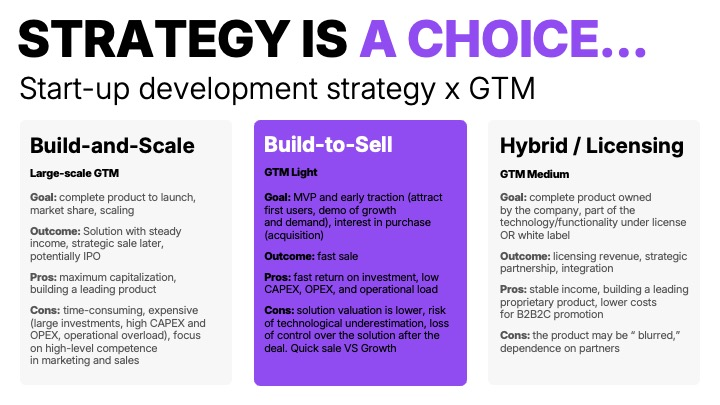
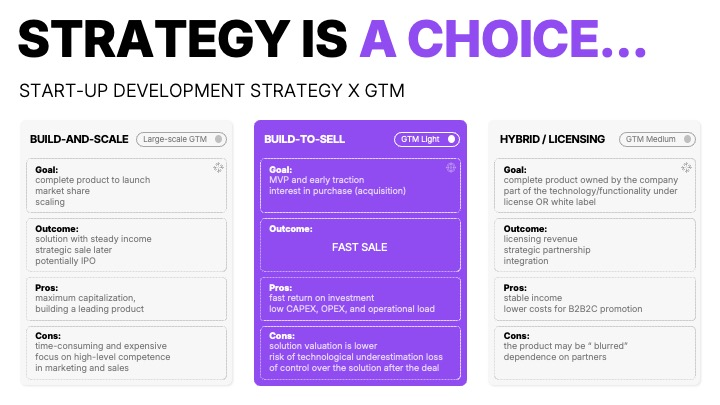
Новые слайды кейса «Маркетинговая стратегия»
Три слайда заменены на присланные заказчицей (AINA 1/2/3), порядок показа
сохранён: 1-2-3. К путям добавлен ?v=2 — имена файлов прежние, и без метки
браузеры отдавали бы старые картинки из кэша.

diff --git a/index.html b/index.html
@@ -16,7 +16,7 @@
 <link rel="preconnect" href="https://fonts.gstatic.com" crossorigin>
 <link href="https://fonts.googleapis.com/css2?family=Unbounded:wght@500;600;700;800&family=Onest:wght@400;500;600;700&family=Big+Shoulders:opsz,wght@72,900&family=Bebas+Neue&display=swap" rel="stylesheet">
 
-<link rel="stylesheet" href="css/style.css?v=r54">
+<link rel="stylesheet" href="css/style.css?v=r55">
 </head>
 <body>
 
@@ -298,9 +298,9 @@
         <article class="case-card" data-animate="fade-up" data-case="marketing-strategy">
           <div class="case-preview">
             <div class="case-slides">
-              <img src="images/gallery/marketing-strategy-1.jpg" alt="Слайд 1 презентации «Маркетинговая стратегия»" loading="lazy" class="is-active">
-              <img src="images/gallery/marketing-strategy-2.jpg" alt="Слайд 2 презентации «Маркетинговая стратегия»" loading="lazy">
-              <img src="images/gallery/marketing-strategy-3.jpg" alt="Слайд 3 презентации «Маркетинговая стратегия»" loading="lazy">
+              <img src="images/gallery/marketing-strategy-1.jpg?v=2" alt="Слайд 1 презентации «Маркетинговая стратегия»" loading="lazy" class="is-active">
+              <img src="images/gallery/marketing-strategy-2.jpg?v=2" alt="Слайд 2 презентации «Маркетинговая стратегия»" loading="lazy">
+              <img src="images/gallery/marketing-strategy-3.jpg?v=2" alt="Слайд 3 презентации «Маркетинговая стратегия»" loading="lazy">
             </div>
             <button class="case-expand" data-case-open aria-label="Открыть кейс «Маркетинговая стратегия» на весь экран">⤢</button>
             <button class="case-arrow case-arrow-prev" data-slide-prev aria-label="Предыдущий слайд">&larr;</button>
@@ -594,6 +594,6 @@
   </div>
 </div>
 
-<script src="js/main.js?v=r54"></script>
+<script src="js/main.js?v=r55"></script>
 </body>
 </html>

diff --git a/js/main.js b/js/main.js
@@ -230,7 +230,7 @@
       // Порядок 1-2-3, а не 3-2-1 как у других кейсов: новые слайды пришли
       // уже пронумерованными в нужной последовательности. Здесь он обязан
       // совпадать с разметкой — иначе лайтбокс листает не то, что в карточке
-      images: ['images/gallery/marketing-strategy-1.jpg', 'images/gallery/marketing-strategy-2.jpg', 'images/gallery/marketing-strategy-3.jpg'],
+      images: ['images/gallery/marketing-strategy-1.jpg?v=2', 'images/gallery/marketing-strategy-2.jpg?v=2', 'images/gallery/marketing-strategy-3.jpg?v=2'],
     },
     'dashboards': {
       title: 'Примеры графиков и дашбордов',
